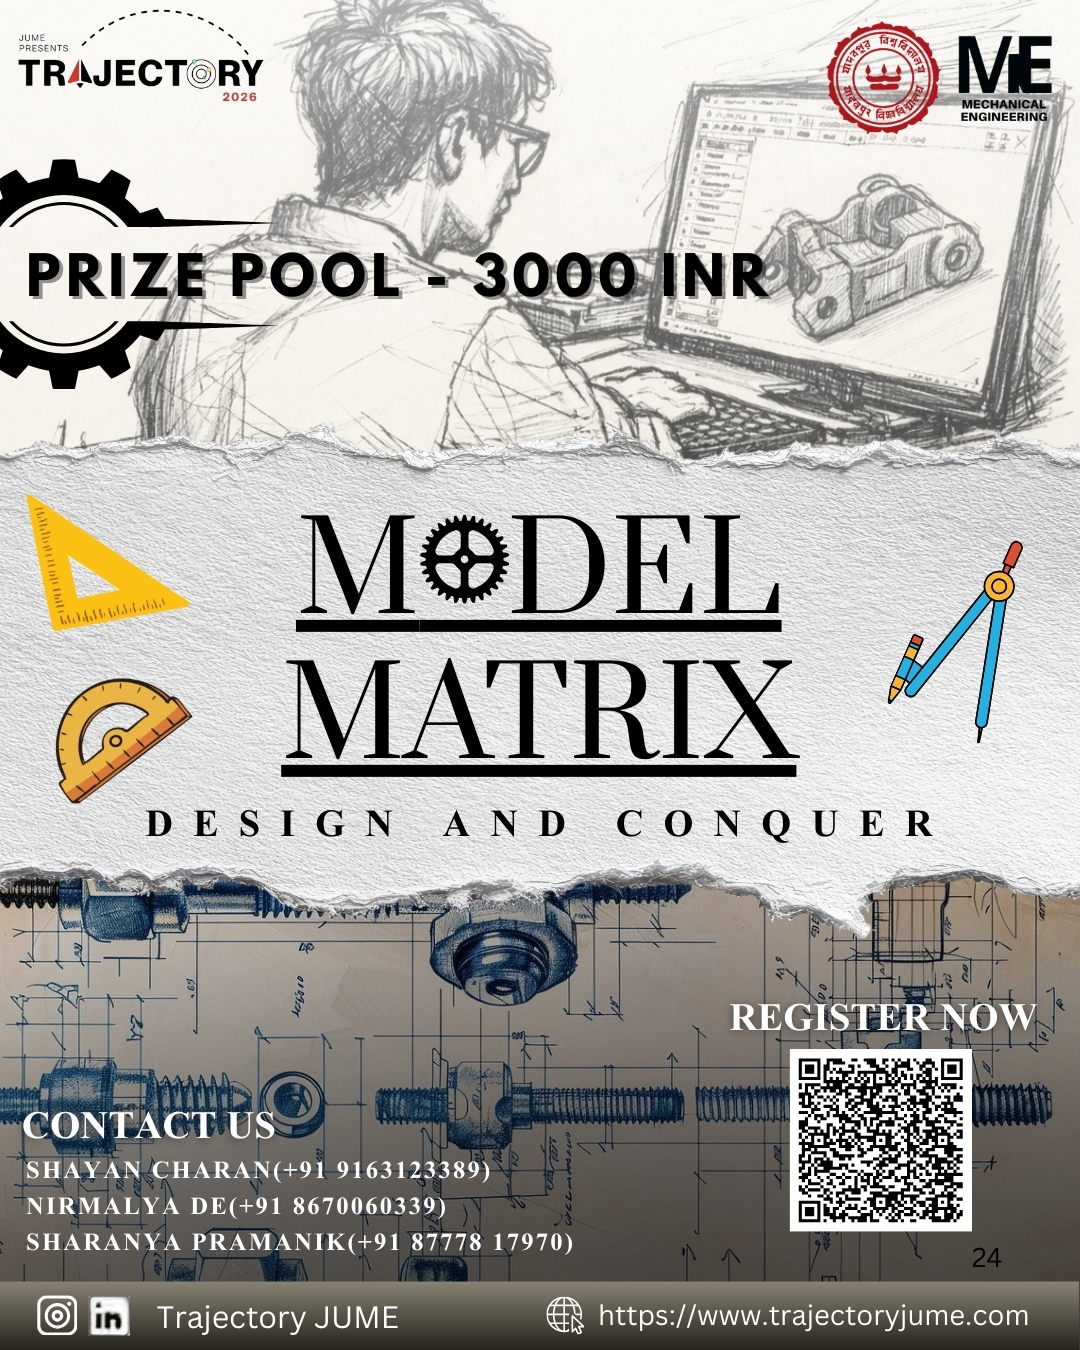
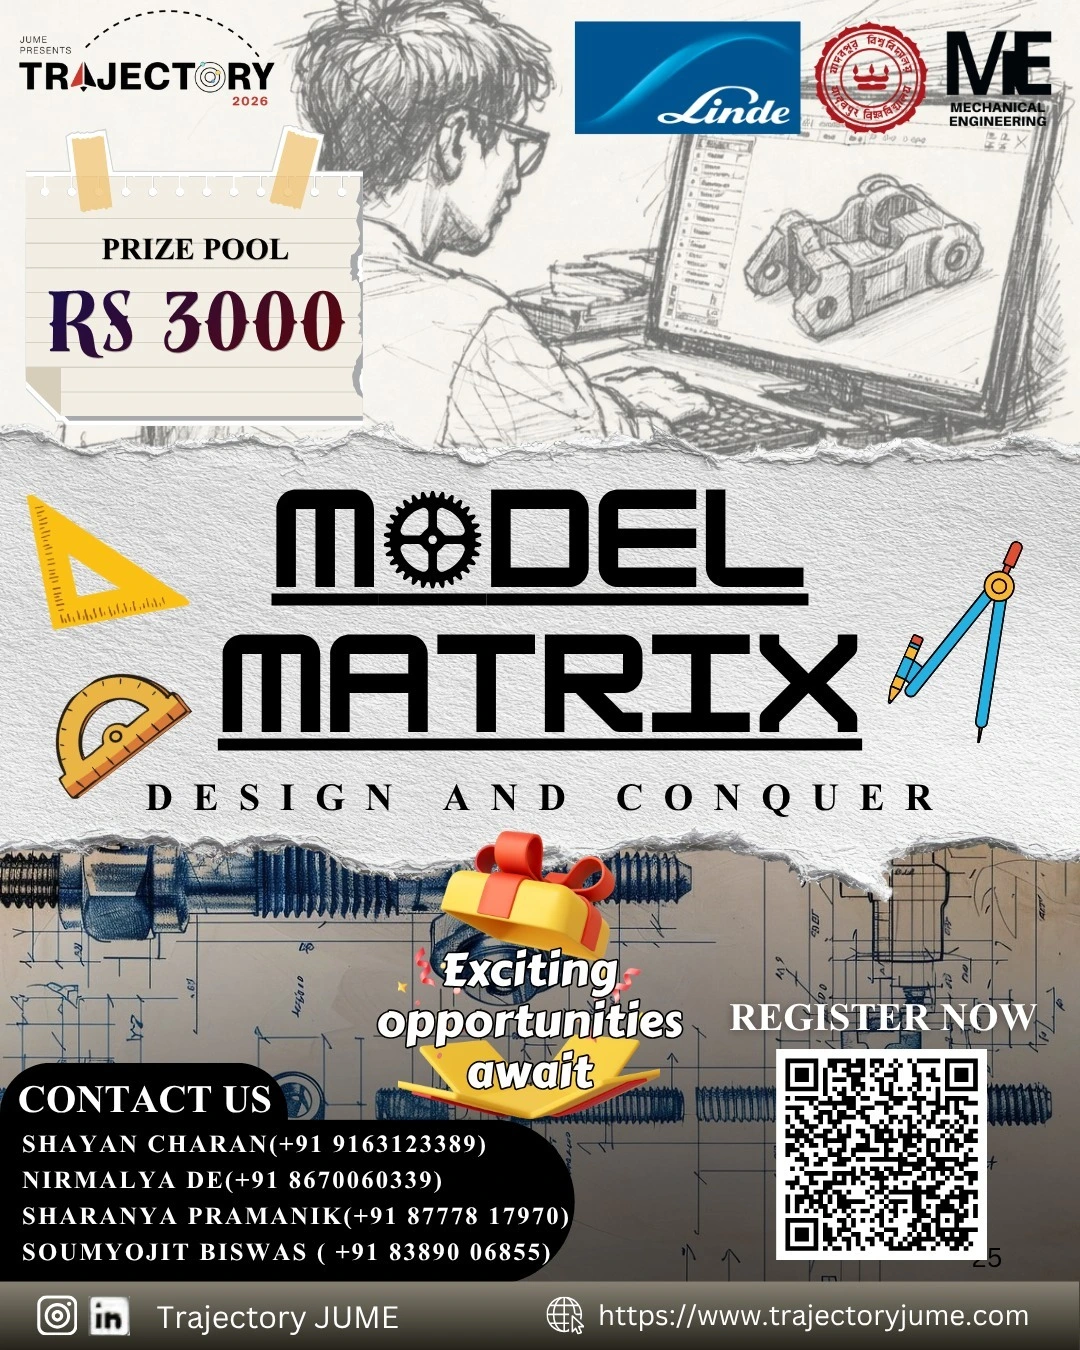
casecom down, treasurehunt mystery, modelmatrix live

diff --git a/src/app/event/[slug]/page.tsx b/src/app/event/[slug]/page.tsx
@@ -219,13 +219,13 @@ export default function Event ({params,}:{params: Promise<{slug: string}>;}) {
     {/* Left Lower */}
     <div className="row-start-3 col-start-1 rounded-sm border-2 bg-vanta border-emerald-400/30 h-[180px] shadow-[0_0_25px_rgba(0,255,0,0.5)]">
       <div className="relative flex flex-col items-center justify-evenly h-full w-full">
-      <Link href={event.register} className="h-15 w-[90%] bg-vanta hover:cursor-pointer border-2 capitalize font-bold text-cyan-500 rounded-sm hover:text-emerald-400/80 transition-all duration-400 ease-in-out hover:scale-102 hover:-translate-y-0.5 hover:shadow-[0px_0px_10px_rgba(0,255,0,0.2)] active:scale-100 flex items-center justify-center" style={{
+      <Link target="_blank" href={event.register} className="h-15 w-[90%] bg-vanta hover:cursor-pointer border-2 capitalize font-bold text-cyan-500 rounded-sm hover:text-emerald-400/80 transition-all duration-400 ease-in-out hover:scale-102 hover:-translate-y-0.5 hover:shadow-[0px_0px_10px_rgba(0,255,0,0.2)] active:scale-100 flex items-center justify-center" style={{
     background: "#0f172a",
     border: "2px solid rgba(56,189,248,0.3)",
   }}>
     Register Now !!! </Link>
 
-      <Link href={event.gdrive} className="h-15 w-[90%] bg-vanta hover:cursor-pointer border-2 capitalize font-bold text-cyan-500 rounded-sm transition-all duration-400 ease-in-out hover:scale-102 hover:text-emerald-300/80 hover:shadow-[0px_0px_10px_rgba(0,255,0,0.2)] hover:-translate-y-0.5 active:scale-100 flex items-center justify-center" style={{
+      <Link target="_blank" href={event.gdrive} className="h-15 w-[90%] bg-vanta hover:cursor-pointer border-2 capitalize font-bold text-cyan-500 rounded-sm transition-all duration-400 ease-in-out hover:scale-102 hover:text-emerald-300/80 hover:shadow-[0px_0px_10px_rgba(0,255,0,0.2)] hover:-translate-y-0.5 active:scale-100 flex items-center justify-center" style={{
     background: "#0f172a",
     border: "2px solid rgba(56,189,248,0.3)",
   }}>Get the Event Details</Link>

diff --git a/src/app/data/events.tsx b/src/app/data/events.tsx
@@ -52,6 +52,7 @@ export const events = [
         image: "/mysteryevent.webp",
         pricepool:"TBD",
         date: "TDB",
+        teamSize: "TBD",
         guidelines:(<>
         <li>Only registrations submitted within the specified registration period will be accepted. Late or incomplete registrations will
 not be entertained.</li>
@@ -208,9 +209,10 @@ coordinator’s decision will be final.</li>
             <li className="font-bold text-cyan-500/80"><span className="font-semibold text-cyan-300/80">Shayan Charan :</span> Contact: +91 9163123389</li>
             <li className="font-bold text-cyan-500/80"><span className="font-semibold text-cyan-300/80">Nirmalya De :</span> Contact: +91 8670060339</li>
             <li className="font-bold text-cyan-500/80"><span className="font-semibold text-cyan-300/80">Sharanya Pramanik :</span> Contact: +91 87778 17970</li>
+            <li className="font-bold text-cyan-500/80"><span className="font-semibold text-cyan-300/80">Soumajit Biswas :</span> Contact: +91 83890 06855</li>
         </>),
          gdrive:("https://drive.google.com/file/d/1R3qlnePQC4z_qxr7Xqu35uNgE_rx1JV0/view?usp=sharing"),
-        register:("https://unstop.com/competitions/model-matrix-trajectory-2026-jadavpur-university-kolkata-1653458?utm_campaign=site-emails&utm_medium=d2c-automated&utm_source=opportunity-approved"),
+        register:("https://unstop.com/competitions/model-matrix-trajectory-2026-jadavpur-university-kolkata-1653458"),
 
     },
     {
